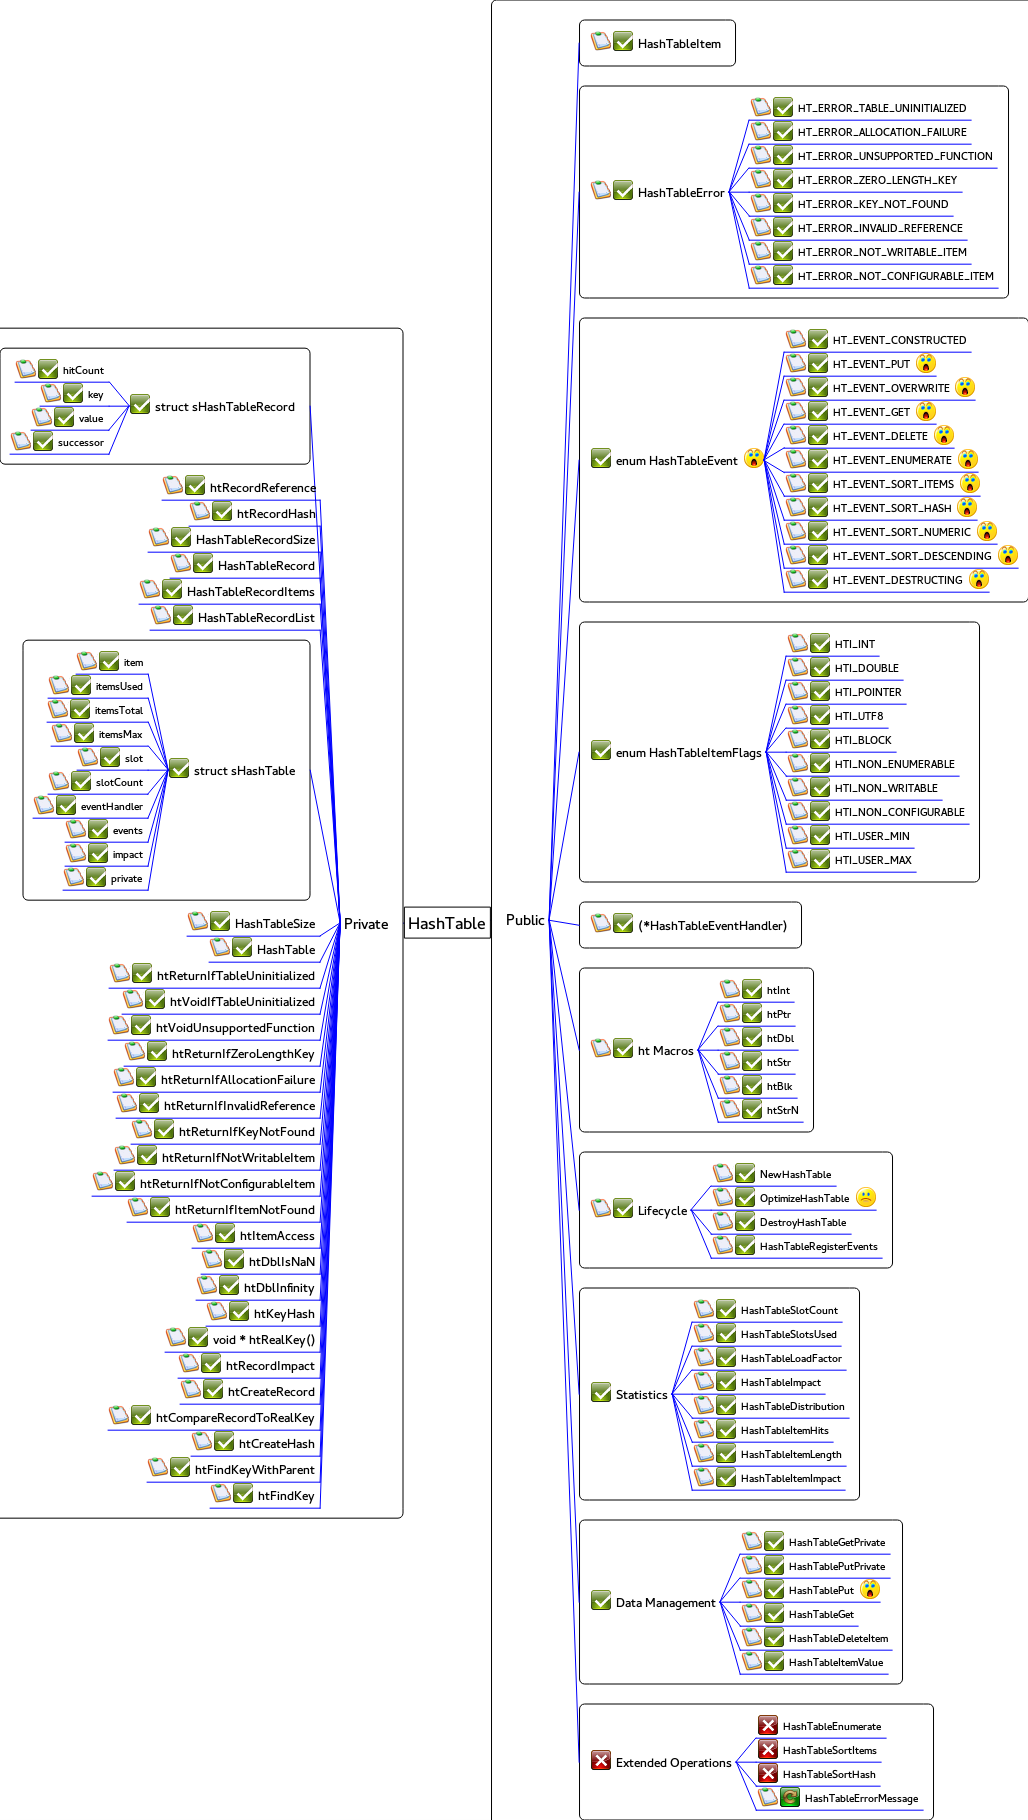
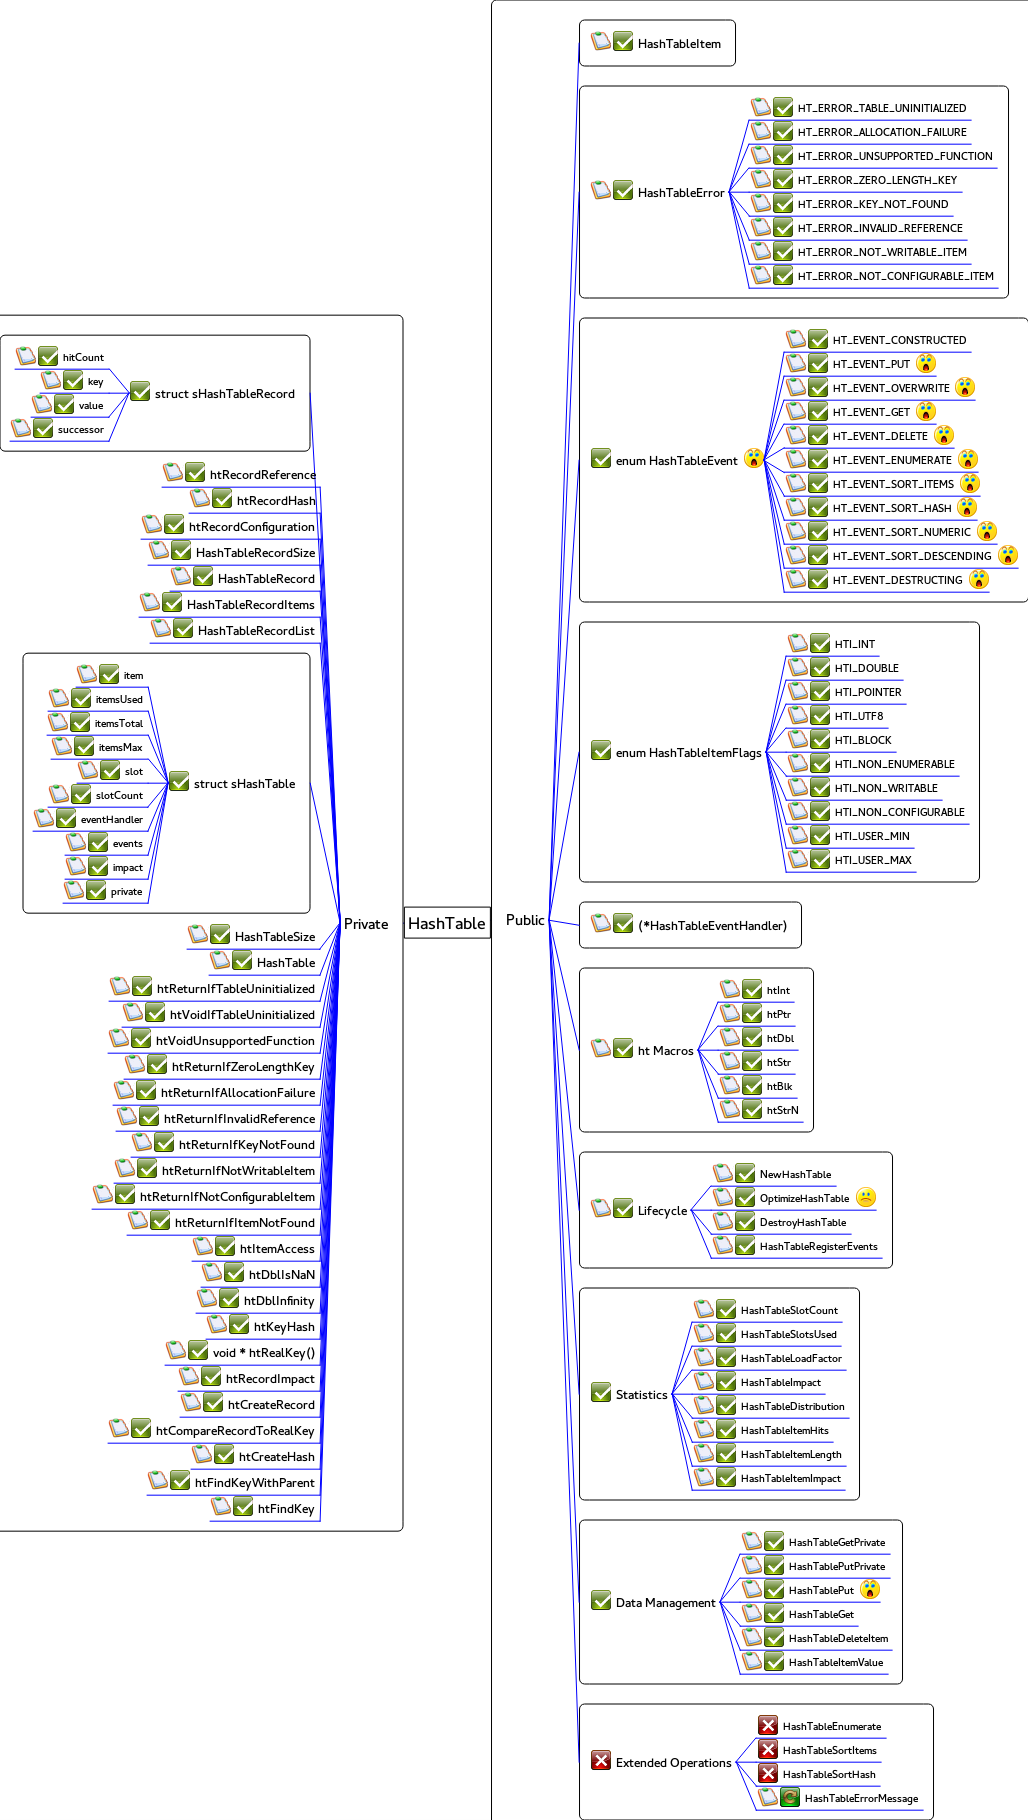
Added documentation macro htRecordConfiguration
Get/Set a record's configuration flags.

Changed region(s): [[0.0, 0.1538, 0.3424, 0.8615], [0.2179, 0.4, 0.2802, 0.4308]]

diff --git a/HashTable.html b/HashTable.html
@@ -357,190 +357,195 @@ HashTableItem htRecordReference(HashTableRecord r)<br/><br/>Get/Set the record's
 size_t htRecordHash(HashTableRecord r)<br/><br/>Get/Set the record's slot hash.<br/>
 </td></tr></table>
 </li>
-<li><span class='vym-branch2'  id='mc:0,bo:1,bo:3'>HashTableRecordSize</span>
+<li><span class='vym-branch2'  id='mc:0,bo:1,bo:3'>htRecordConfiguration</span>
+<table class="vym-note"><tr><td>
+size_t htRecordConfiguration(HashTableRecord r)<br/><br/>Get/Set the record's configuration flags.<br/>
+</td></tr></table>
+</li>
+<li><span class='vym-branch2'  id='mc:0,bo:1,bo:4'>HashTableRecordSize</span>
 <table class="vym-note"><tr><td>
 #define HashTableRecordSize sizeof(sHashTableRecord)<br/><br/>The size in bytes of a single sHashTableRecord.<br/>
 </td></tr></table>
 </li>
-<li><span class='vym-branch2'  id='mc:0,bo:1,bo:4'>HashTableRecord</span>
+<li><span class='vym-branch2'  id='mc:0,bo:1,bo:5'>HashTableRecord</span>
 <table class="vym-note"><tr><td>
 #define HashTableRecord sHashTableRecord *<br/><br/>An alias for sHashTableRecord *.<br/>
 </td></tr></table>
 </li>
-<li><span class='vym-branch2'  id='mc:0,bo:1,bo:5'>HashTableRecordItems</span>
+<li><span class='vym-branch2'  id='mc:0,bo:1,bo:6'>HashTableRecordItems</span>
 <table class="vym-note"><tr><td>
 #define HashTableRecordItems sHashTableRecord **<br/><br/>An alias for sHashTableRecord **.
 </td></tr></table>
 </li>
-<li><span class='vym-branch2'  id='mc:0,bo:1,bo:6'>HashTableRecordList</span>
+<li><span class='vym-branch2'  id='mc:0,bo:1,bo:7'>HashTableRecordList</span>
 <table class="vym-note"><tr><td>
 #define HashTableRecordList sHashTableRecord **<br/><br/>An alias for sHashTableRecord **.
 </td></tr></table>
 </li>
-<li><span class='vym-branch2'  id='mc:0,bo:1,bo:7'>struct sHashTable</span><ul>
-<li><span class='vym-branch3'  id='mc:0,bo:1,bo:7,bo:0'>item</span>
+<li><span class='vym-branch2'  id='mc:0,bo:1,bo:8'>struct sHashTable</span><ul>
+<li><span class='vym-branch3'  id='mc:0,bo:1,bo:8,bo:0'>item</span>
 <table class="vym-note"><tr><td>
 HashTableRecordItems item<br/><br/>Pointer array containing the logical order of all hash table entries.<br/>
 </td></tr></table>
 </li>
-<li><span class='vym-branch3'  id='mc:0,bo:1,bo:7,bo:1'>itemsUsed</span>
+<li><span class='vym-branch3'  id='mc:0,bo:1,bo:8,bo:1'>itemsUsed</span>
 <table class="vym-note"><tr><td>
 size_t itemsUsed<br/><br/>The number of items written to in the linear pointer array.<br/>
 </td></tr></table>
 </li>
-<li><span class='vym-branch3'  id='mc:0,bo:1,bo:7,bo:2'>itemsTotal</span>
+<li><span class='vym-branch3'  id='mc:0,bo:1,bo:8,bo:2'>itemsTotal</span>
 <table class="vym-note"><tr><td>
 size_t itemsTotal<br/><br/>The number of data records actually held by this hash table.<br/>
 </td></tr></table>
 </li>
-<li><span class='vym-branch3'  id='mc:0,bo:1,bo:7,bo:3'>itemsMax</span>
+<li><span class='vym-branch3'  id='mc:0,bo:1,bo:8,bo:3'>itemsMax</span>
 <table class="vym-note"><tr><td>
 size_t itemsMax<br/><br/>The number of records that can be written to the linear pointer array.<br/>
 </td></tr></table>
 </li>
-<li><span class='vym-branch3'  id='mc:0,bo:1,bo:7,bo:4'>slot</span>
+<li><span class='vym-branch3'  id='mc:0,bo:1,bo:8,bo:4'>slot</span>
 <table class="vym-note"><tr><td>
 sHashTable ** slot<br/><br/>This pointer array, stores the entries that are also stored in linear, except it stores them in true Hash Table fashion as a linked list of finite buckets or "slots".<br/>
 </td></tr></table>
 </li>
-<li><span class='vym-branch3'  id='mc:0,bo:1,bo:7,bo:5'>slotCount</span>
+<li><span class='vym-branch3'  id='mc:0,bo:1,bo:8,bo:5'>slotCount</span>
 <table class="vym-note"><tr><td>
 size_t slotCount<br/><br/>The number of slots this table has allocated for record list storage.<br/>
 </td></tr></table>
 </li>
-<li><span class='vym-branch3'  id='mc:0,bo:1,bo:7,bo:6'>eventHandler</span>
+<li><span class='vym-branch3'  id='mc:0,bo:1,bo:8,bo:6'>eventHandler</span>
 <table class="vym-note"><tr><td>
 HashTableEventHandler eventHandler<br/><br/>The call back procedure which is called when hash table events are "raised".<br/>
 </td></tr></table>
 </li>
-<li><span class='vym-branch3'  id='mc:0,bo:1,bo:7,bo:7'>events</span>
+<li><span class='vym-branch3'  id='mc:0,bo:1,bo:8,bo:7'>events</span>
 <table class="vym-note"><tr><td>
 size_t eventFlags<br/><br/>The HashTableEvent flags this table's event handler handles.
 </td></tr></table>
 </li>
-<li><span class='vym-branch3'  id='mc:0,bo:1,bo:7,bo:8'>impact</span>
+<li><span class='vym-branch3'  id='mc:0,bo:1,bo:8,bo:8'>impact</span>
 <table class="vym-note"><tr><td>
 size_t impact<br/><br/>The number of bytes consumed in memory by this hash table and all of its records.<br/>
 </td></tr></table>
 </li>
-<li><span class='vym-branch3'  id='mc:0,bo:1,bo:7,bo:9'>private</span>
+<li><span class='vym-branch3'  id='mc:0,bo:1,bo:8,bo:9'>private</span>
 <table class="vym-note"><tr><td>
 void * private<br/><br/>The private data the user associates with this hash table.<br/>
 </td></tr></table>
 </li>
 </ul>
 </li>
-<li><span class='vym-branch2'  id='mc:0,bo:1,bo:8'>HashTableSize</span>
+<li><span class='vym-branch2'  id='mc:0,bo:1,bo:9'>HashTableSize</span>
 <table class="vym-note"><tr><td>
 #define HashTableSize sizeof(sHashTable)<br/><br/>The size in bytes of a single sHashTable.<br/>
 </td></tr></table>
 </li>
-<li><span class='vym-branch2'  id='mc:0,bo:1,bo:9'>HashTable</span>
+<li><span class='vym-branch2'  id='mc:0,bo:1,bo:10'>HashTable</span>
 <table class="vym-note"><tr><td>
 #define HashTable sHashTable *<br/><br/>An alias for sHashTable *.<br/>
 </td></tr></table>
 </li>
-<li><span class='vym-branch2'  id='mc:0,bo:1,bo:10'>htReturnIfTableUninitialized</span>
+<li><span class='vym-branch2'  id='mc:0,bo:1,bo:11'>htReturnIfTableUninitialized</span>
 <table class="vym-note"><tr><td>
 void htReturnIfTableUninitialized(HashTable ht)<br/><br/>Return 0 if ht is null.<br/>
 </td></tr></table>
 </li>
-<li><span class='vym-branch2'  id='mc:0,bo:1,bo:11'>htVoidIfTableUninitialized</span>
+<li><span class='vym-branch2'  id='mc:0,bo:1,bo:12'>htVoidIfTableUninitialized</span>
 <table class="vym-note"><tr><td>
 void htVoidIfTableUninitialized(HashTable ht)<br/><br/>Return undefined if table is Null (uninitialized).<br/>
 </td></tr></table>
 </li>
-<li><span class='vym-branch2'  id='mc:0,bo:1,bo:12'>htVoidUnsupportedFunction</span>
+<li><span class='vym-branch2'  id='mc:0,bo:1,bo:13'>htVoidUnsupportedFunction</span>
 <table class="vym-note"><tr><td>
 void htVoidUnsupportedFunction(void)<br/><br/>Set errno to HT_ERROR_UNSUPPORTED_FUNCTION and Return.<br/>
 </td></tr></table>
 </li>
-<li><span class='vym-branch2'  id='mc:0,bo:1,bo:13'>htReturnIfZeroLengthKey</span>
+<li><span class='vym-branch2'  id='mc:0,bo:1,bo:14'>htReturnIfZeroLengthKey</span>
 <table class="vym-note"><tr><td>
 void htReturnIfZeroLengthKey(size_t length)<br/><br/>Set errno to HT_ERROR_ZERO_LENGTH_KEY and return 0.<br/>
 </td></tr></table>
 </li>
-<li><span class='vym-branch2'  id='mc:0,bo:1,bo:14'>htReturnIfAllocationFailure</span>
+<li><span class='vym-branch2'  id='mc:0,bo:1,bo:15'>htReturnIfAllocationFailure</span>
 <table class="vym-note"><tr><td>
 void htReturnIfAllocationFailure(void * ptr, ...)<br/><br/>If ptr is null, set errno HT_ERROR_ALLOCATION_FAILURE and execute statements (expectedly free(), ...) and return 0.<br/>
 </td></tr></table>
 </li>
-<li><span class='vym-branch2'  id='mc:0,bo:1,bo:15'>htReturnIfInvalidReference</span>
+<li><span class='vym-branch2'  id='mc:0,bo:1,bo:16'>htReturnIfInvalidReference</span>
 <table class="vym-note"><tr><td>
 void htReturnIfInvalidReference(HashTable ht, HashTableItem reference)<br/><br/>If reference is an invalid item reference, set errno to HT_ERROR_INVALID_REFERENCE and return 0.<br/>
 </td></tr></table>
 </li>
-<li><span class='vym-branch2'  id='mc:0,bo:1,bo:16'>htReturnIfKeyNotFound</span>
+<li><span class='vym-branch2'  id='mc:0,bo:1,bo:17'>htReturnIfKeyNotFound</span>
 <table class="vym-note"><tr><td>
 void htReturnIfKeyNotFound(HashTableRecord item)<br/><br/>If item is null, set errno to HT_ERROR_KEY_NOT_FOUND and return 0.<br/>
 </td></tr></table>
 </li>
-<li><span class='vym-branch2'  id='mc:0,bo:1,bo:17'>htReturnIfNotWritableItem</span>
+<li><span class='vym-branch2'  id='mc:0,bo:1,bo:18'>htReturnIfNotWritableItem</span>
 <table class="vym-note"><tr><td>
 void htReturnIfNotWritableItem(HashTableRecord item)<br/><br/>If item has flags HTI_CONSTANT, set errno to HT_ERROR_NOT_WRITABLE_ITEM and return 0.<br/>
 </td></tr></table>
 </li>
-<li><span class='vym-branch2'  id='mc:0,bo:1,bo:18'>htReturnIfNotConfigurableItem</span>
+<li><span class='vym-branch2'  id='mc:0,bo:1,bo:19'>htReturnIfNotConfigurableItem</span>
 <table class="vym-note"><tr><td>
 void htReturnIfNotConfigurableItem(HashTableItem reference)<br/><br/>If the item cannot be configured set errno HT_ERROR_NOT_CONFIGURABLE_ITEM and return 0.<br/>
 </td></tr></table>
 </li>
-<li><span class='vym-branch2'  id='mc:0,bo:1,bo:19'>htReturnIfItemNotFound</span>
+<li><span class='vym-branch2'  id='mc:0,bo:1,bo:20'>htReturnIfItemNotFound</span>
 <table class="vym-note"><tr><td>
 void htReturnIfItemNotFound(HashTableRecord item)<br/><br/>If item is null, set errno to HT_ERROR_INVALID_REFERENCE and return 0.<br/><br/>The naming of this error breaks the uniformity of the API, however intrinsicly, this is in effect the same error that would be returned. If any changes are made, the new error identifier will only be an alias of the above error, thusly guranteeing backwards compatibility for this feature.<br/>
 </td></tr></table>
 </li>
-<li><span class='vym-branch2'  id='mc:0,bo:1,bo:20'>htItemAccess</span>
+<li><span class='vym-branch2'  id='mc:0,bo:1,bo:21'>htItemAccess</span>
 <table class="vym-note"><tr><td>
 void htItemAccess(HashTable ht, HashTableItem reference, identifier label, expression)<br/><br/>Return error if table uninitialized, return error if invalid reference, assign hash table item reference to label, if label is non-null, return label expression otherwise, return invalid reference error.<br/>
 </td></tr></table>
 </li>
-<li><span class='vym-branch2'  id='mc:0,bo:1,bo:21'>htDblIsNaN</span>
+<li><span class='vym-branch2'  id='mc:0,bo:1,bo:22'>htDblIsNaN</span>
 <table class="vym-note"><tr><td>
 boolean htDblIsNaN(double value)<br/><br/>Returns true or false if the value specified is representative of the IEEE 754 floating point value NaN.<br/>
 </td></tr></table>
 </li>
-<li><span class='vym-branch2'  id='mc:0,bo:1,bo:22'>htDblInfinity</span>
+<li><span class='vym-branch2'  id='mc:0,bo:1,bo:23'>htDblInfinity</span>
 <table class="vym-note"><tr><td>
 (signed int) trilean htDblInfinity(double value)<br/><br/>Returns -1 if the double value specified is an IEEE 754 negative infinity, 1 if the value specified is an IEEE 754 positive infinity, and zero otherwise. Trilean meaning three state value.<br/>
 </td></tr></table>
 </li>
-<li><span class='vym-branch2'  id='mc:0,bo:1,bo:23'>htKeyHash</span>
+<li><span class='vym-branch2'  id='mc:0,bo:1,bo:24'>htKeyHash</span>
 <table class="vym-note"><tr><td>
 size_t htKeyHash(HashTable ht, size_t keyLength, void * realKey)<br/><br/>Hashes a key and distributes (selects a slot for) the key in the table.<br/>
 </td></tr></table>
 </li>
-<li><span class='vym-branch2'  id='mc:0,bo:1,bo:24'>void * htRealKey()</span>
+<li><span class='vym-branch2'  id='mc:0,bo:1,bo:25'>void * htRealKey()</span>
 <table class="vym-note"><tr><td>
 void * htRealKey(HashTableRecordFlag hint, double value)<br/><br/>Automatically selects pointer to double, or pointer in double based on the contents of flag.<br/><br/>Value must be an lvalue.<br/>
 </td></tr></table>
 </li>
-<li><span class='vym-branch2'  id='mc:0,bo:1,bo:25'>htRecordImpact</span>
+<li><span class='vym-branch2'  id='mc:0,bo:1,bo:26'>htRecordImpact</span>
 <table class="vym-note"><tr><td>
 size_t htRecordImpact(HashTableRecord record)<br/><br/>Returns the size in bytes occupied by a hash table record.<br/>
 </td></tr></table>
 </li>
-<li><span class='vym-branch2'  id='mc:0,bo:1,bo:26'>htCreateRecord</span>
+<li><span class='vym-branch2'  id='mc:0,bo:1,bo:27'>htCreateRecord</span>
 <table class="vym-note"><tr><td>
 HashTableRecord htCreateRecord(HashTable ht, size_t keyLength, double key, HashTableItemFlags keyHint, size_t valueLength, double value, HashTableItemFlags valueHint)<br/><br/>Creates a new hash table record.<br/>
 </td></tr></table>
 </li>
-<li><span class='vym-branch2'  id='mc:0,bo:1,bo:27'>htCompareRecordToRealKey</span>
+<li><span class='vym-branch2'  id='mc:0,bo:1,bo:28'>htCompareRecordToRealKey</span>
 <table class="vym-note"><tr><td>
 boolean htCompareRecordToRealKey(HashTable ht, HashTableRecord record, size_t keyLength, void * realKey)<br/><br/>Compares a hash table record to a real key.<br/>
 </td></tr></table>
 </li>
-<li><span class='vym-branch2'  id='mc:0,bo:1,bo:28'>htCreateHash</span>
+<li><span class='vym-branch2'  id='mc:0,bo:1,bo:29'>htCreateHash</span>
 <table class="vym-note"><tr><td>
 size_t htCreateHash(size_t keyLength, void * realKey)<br/><br/>Creates a hash of any data supplied, using the hash table library's hashing algorithm.<br/>
 </td></tr></table>
 </li>
-<li><span class='vym-branch2'  id='mc:0,bo:1,bo:29'>htFindKeyWithParent</span>
+<li><span class='vym-branch2'  id='mc:0,bo:1,bo:30'>htFindKeyWithParent</span>
 <table class="vym-note"><tr><td>
 HashTableRecord htFindKeyWithParent(HashTable table, size_t keyLength, void * realKey, HashTableRecord primary, HashTableRecord * parent)<br/><br/>Locate a key within the table beginning the search at primary, returning the results found, as well as the predecessor of the key found (or not found).<br/>
 </td></tr></table>
 </li>
-<li><span class='vym-branch2'  id='mc:0,bo:1,bo:30'>htFindKey</span>
+<li><span class='vym-branch2'  id='mc:0,bo:1,bo:31'>htFindKey</span>
 <table class="vym-note"><tr><td>
 HashTableRecord htFindKey(HashTable table, size_t keyLength, void * realKey)<br/><br/>Locate a key within a table's records and return its 1 based index within the linear list or zero if not found.<br/>
 </td></tr></table>
@@ -619,51 +624,52 @@ HashTableRecord htFindKey(HashTable table, size_t keyLength, void * realKey)<br/
   <area shape='rect' coords='778.529,1762,880.529,1786' href='#mc:0,bo:0,bo:9,bo:2'>
   <area shape='rect' coords='800.529,1786,923.529,1810' href='#mc:0,bo:0,bo:9,bo:3'>
   <area shape='rect' coords='340,908.664,393,937.664' href='#mc:0,bo:1'>
-  <area shape='rect' coords='151,393.164,300,419.164' href='#mc:0,bo:1,bo:0'>
-  <area shape='rect' coords='59,358.164,109,382.164' href='#mc:0,bo:1,bo:0,bo:0'>
-  <area shape='rect' coords='84,382.164,109,406.164' href='#mc:0,bo:1,bo:0,bo:1'>
-  <area shape='rect' coords='75,406.164,109,430.164' href='#mc:0,bo:1,bo:0,bo:2'>
-  <area shape='rect' coords='54,430.164,109,454.164' href='#mc:0,bo:1,bo:0,bo:3'>
-  <area shape='rect' coords='206,474.164,320,500.164' href='#mc:0,bo:1,bo:1'>
-  <area shape='rect' coords='233,500.164,320,526.164' href='#mc:0,bo:1,bo:2'>
-  <area shape='rect' coords='192,526.164,320,552.164' href='#mc:0,bo:1,bo:3'>
-  <area shape='rect' coords='214,552.164,320,578.164' href='#mc:0,bo:1,bo:4'>
-  <area shape='rect' coords='183,578.164,320,604.164' href='#mc:0,bo:1,bo:5'>
-  <area shape='rect' coords='194,604.164,320,630.164' href='#mc:0,bo:1,bo:6'>
-  <area shape='rect' coords='190,757.164,300,783.164' href='#mc:0,bo:1,bo:7'>
-  <area shape='rect' coords='120,650.164,148,674.164' href='#mc:0,bo:1,bo:7,bo:0'>
-  <area shape='rect' coords='92,674.164,148,698.164' href='#mc:0,bo:1,bo:7,bo:1'>
-  <area shape='rect' coords='91,698.164,148,722.164' href='#mc:0,bo:1,bo:7,bo:2'>
-  <area shape='rect' coords='95,722.164,148,746.164' href='#mc:0,bo:1,bo:7,bo:3'>
-  <area shape='rect' coords='121,746.164,148,770.164' href='#mc:0,bo:1,bo:7,bo:4'>
-  <area shape='rect' coords='92,770.164,148,794.164' href='#mc:0,bo:1,bo:7,bo:5'>
-  <area shape='rect' coords='77,794.164,148,818.164' href='#mc:0,bo:1,bo:7,bo:6'>
-  <area shape='rect' coords='109,818.164,148,842.164' href='#mc:0,bo:1,bo:7,bo:7'>
-  <area shape='rect' coords='109,842.164,148,866.164' href='#mc:0,bo:1,bo:7,bo:8'>
-  <area shape='rect' coords='107,866.164,148,890.164' href='#mc:0,bo:1,bo:7,bo:9'>
-  <area shape='rect' coords='231,910.164,320,936.164' href='#mc:0,bo:1,bo:8'>
-  <area shape='rect' coords='253,936.164,320,962.164' href='#mc:0,bo:1,bo:9'>
-  <area shape='rect' coords='153,962.164,320,988.164' href='#mc:0,bo:1,bo:10'>
-  <area shape='rect' coords='166,988.164,320,1014.16' href='#mc:0,bo:1,bo:11'>
-  <area shape='rect' coords='152,1014.16,320,1040.16' href='#mc:0,bo:1,bo:12'>
-  <area shape='rect' coords='168,1040.16,320,1066.16' href='#mc:0,bo:1,bo:13'>
-  <area shape='rect' coords='157,1066.16,320,1092.16' href='#mc:0,bo:1,bo:14'>
-  <area shape='rect' coords='160,1092.16,320,1118.16' href='#mc:0,bo:1,bo:15'>
-  <area shape='rect' coords='175,1118.16,320,1144.16' href='#mc:0,bo:1,bo:16'>
-  <area shape='rect' coords='158,1144.16,320,1170.16' href='#mc:0,bo:1,bo:17'>
-  <area shape='rect' coords='136,1170.16,320,1196.16' href='#mc:0,bo:1,bo:18'>
-  <area shape='rect' coords='171,1196.16,320,1222.16' href='#mc:0,bo:1,bo:19'>
-  <area shape='rect' coords='236,1222.16,320,1248.16' href='#mc:0,bo:1,bo:20'>
-  <area shape='rect' coords='245,1248.16,320,1274.16' href='#mc:0,bo:1,bo:21'>
-  <area shape='rect' coords='240,1274.16,320,1300.16' href='#mc:0,bo:1,bo:22'>
-  <area shape='rect' coords='250,1300.16,320,1326.16' href='#mc:0,bo:1,bo:23'>
-  <area shape='rect' coords='209,1326.16,320,1352.16' href='#mc:0,bo:1,bo:24'>
-  <area shape='rect' coords='222,1352.16,320,1378.16' href='#mc:0,bo:1,bo:25'>
-  <area shape='rect' coords='224,1378.16,320,1404.16' href='#mc:0,bo:1,bo:26'>
-  <area shape='rect' coords='152,1404.16,320,1430.16' href='#mc:0,bo:1,bo:27'>
-  <area shape='rect' coords='235,1430.16,320,1456.16' href='#mc:0,bo:1,bo:28'>
-  <area shape='rect' coords='191,1456.16,320,1482.16' href='#mc:0,bo:1,bo:29'>
-  <area shape='rect' coords='254,1482.16,320,1508.16' href='#mc:0,bo:1,bo:30'>
+  <area shape='rect' coords='151,380.164,300,406.164' href='#mc:0,bo:1,bo:0'>
+  <area shape='rect' coords='59,345.164,109,369.164' href='#mc:0,bo:1,bo:0,bo:0'>
+  <area shape='rect' coords='84,369.164,109,393.164' href='#mc:0,bo:1,bo:0,bo:1'>
+  <area shape='rect' coords='75,393.164,109,417.164' href='#mc:0,bo:1,bo:0,bo:2'>
+  <area shape='rect' coords='54,417.164,109,441.164' href='#mc:0,bo:1,bo:0,bo:3'>
+  <area shape='rect' coords='206,461.164,320,487.164' href='#mc:0,bo:1,bo:1'>
+  <area shape='rect' coords='233,487.164,320,513.164' href='#mc:0,bo:1,bo:2'>
+  <area shape='rect' coords='185,513.164,320,539.164' href='#mc:0,bo:1,bo:3'>
+  <area shape='rect' coords='192,539.164,320,565.164' href='#mc:0,bo:1,bo:4'>
+  <area shape='rect' coords='214,565.164,320,591.164' href='#mc:0,bo:1,bo:5'>
+  <area shape='rect' coords='183,591.164,320,617.164' href='#mc:0,bo:1,bo:6'>
+  <area shape='rect' coords='194,617.164,320,643.164' href='#mc:0,bo:1,bo:7'>
+  <area shape='rect' coords='190,770.164,300,796.164' href='#mc:0,bo:1,bo:8'>
+  <area shape='rect' coords='120,663.164,148,687.164' href='#mc:0,bo:1,bo:8,bo:0'>
+  <area shape='rect' coords='92,687.164,148,711.164' href='#mc:0,bo:1,bo:8,bo:1'>
+  <area shape='rect' coords='91,711.164,148,735.164' href='#mc:0,bo:1,bo:8,bo:2'>
+  <area shape='rect' coords='95,735.164,148,759.164' href='#mc:0,bo:1,bo:8,bo:3'>
+  <area shape='rect' coords='121,759.164,148,783.164' href='#mc:0,bo:1,bo:8,bo:4'>
+  <area shape='rect' coords='92,783.164,148,807.164' href='#mc:0,bo:1,bo:8,bo:5'>
+  <area shape='rect' coords='77,807.164,148,831.164' href='#mc:0,bo:1,bo:8,bo:6'>
+  <area shape='rect' coords='109,831.164,148,855.164' href='#mc:0,bo:1,bo:8,bo:7'>
+  <area shape='rect' coords='109,855.164,148,879.164' href='#mc:0,bo:1,bo:8,bo:8'>
+  <area shape='rect' coords='107,879.164,148,903.164' href='#mc:0,bo:1,bo:8,bo:9'>
+  <area shape='rect' coords='231,923.164,320,949.164' href='#mc:0,bo:1,bo:9'>
+  <area shape='rect' coords='253,949.164,320,975.164' href='#mc:0,bo:1,bo:10'>
+  <area shape='rect' coords='153,975.164,320,1001.16' href='#mc:0,bo:1,bo:11'>
+  <area shape='rect' coords='166,1001.16,320,1027.16' href='#mc:0,bo:1,bo:12'>
+  <area shape='rect' coords='152,1027.16,320,1053.16' href='#mc:0,bo:1,bo:13'>
+  <area shape='rect' coords='168,1053.16,320,1079.16' href='#mc:0,bo:1,bo:14'>
+  <area shape='rect' coords='157,1079.16,320,1105.16' href='#mc:0,bo:1,bo:15'>
+  <area shape='rect' coords='160,1105.16,320,1131.16' href='#mc:0,bo:1,bo:16'>
+  <area shape='rect' coords='175,1131.16,320,1157.16' href='#mc:0,bo:1,bo:17'>
+  <area shape='rect' coords='158,1157.16,320,1183.16' href='#mc:0,bo:1,bo:18'>
+  <area shape='rect' coords='136,1183.16,320,1209.16' href='#mc:0,bo:1,bo:19'>
+  <area shape='rect' coords='171,1209.16,320,1235.16' href='#mc:0,bo:1,bo:20'>
+  <area shape='rect' coords='236,1235.16,320,1261.16' href='#mc:0,bo:1,bo:21'>
+  <area shape='rect' coords='245,1261.16,320,1287.16' href='#mc:0,bo:1,bo:22'>
+  <area shape='rect' coords='240,1287.16,320,1313.16' href='#mc:0,bo:1,bo:23'>
+  <area shape='rect' coords='250,1313.16,320,1339.16' href='#mc:0,bo:1,bo:24'>
+  <area shape='rect' coords='209,1339.16,320,1365.16' href='#mc:0,bo:1,bo:25'>
+  <area shape='rect' coords='222,1365.16,320,1391.16' href='#mc:0,bo:1,bo:26'>
+  <area shape='rect' coords='224,1391.16,320,1417.16' href='#mc:0,bo:1,bo:27'>
+  <area shape='rect' coords='152,1417.16,320,1443.16' href='#mc:0,bo:1,bo:28'>
+  <area shape='rect' coords='235,1443.16,320,1469.16' href='#mc:0,bo:1,bo:29'>
+  <area shape='rect' coords='191,1469.16,320,1495.16' href='#mc:0,bo:1,bo:30'>
+  <area shape='rect' coords='254,1495.16,320,1521.16' href='#mc:0,bo:1,bo:31'>
 </map>
 <hr/>
 <table class="vym-footer">   

diff --git a/src/HashTable.c b/src/HashTable.c
@@ -58,6 +58,7 @@ typedef struct sHashTableRecord {
 
 #define htRecordReference(r) varprvti (r->key)
 #define htRecordHash(r) varprvti (r->value)
+#define htRecordConfiguration(r) vartype(r->value)
 
 #define HashTableRecordSize sizeof(sHashTableRecord)
 #define HashTableRecord sHashTableRecord *
@@ -103,12 +104,13 @@ typedef struct sHashTable {
 #define htReturnIfKeyNotFound(i) \
 	if ( ! (i) ) { errno = HT_ERROR_KEY_NOT_FOUND; return 0; }
 
-#define htReturnIfNotWritableItem(i) if (vartype(i->value) & HTR_NON_WRITABLE) { \
+#define htReturnIfNotWritableItem(i) \
+if (htRecordConfiguration(i) & HTR_NON_WRITABLE) { \
 	errno = HT_ERROR_NOT_WRITABLE_ITEM; return 0; \
 }
 
 #define htReturnIfNotConfigurableItem(i) \
-if (vartype(i->value) & HTR_NON_CONFIGURABLE) { \
+if (htRecordConfiguration(i) & HTR_NON_CONFIGURABLE) { \
 	errno = HT_ERROR_NOT_CONFIGURABLE_ITEM; return 0; \
 }
 
